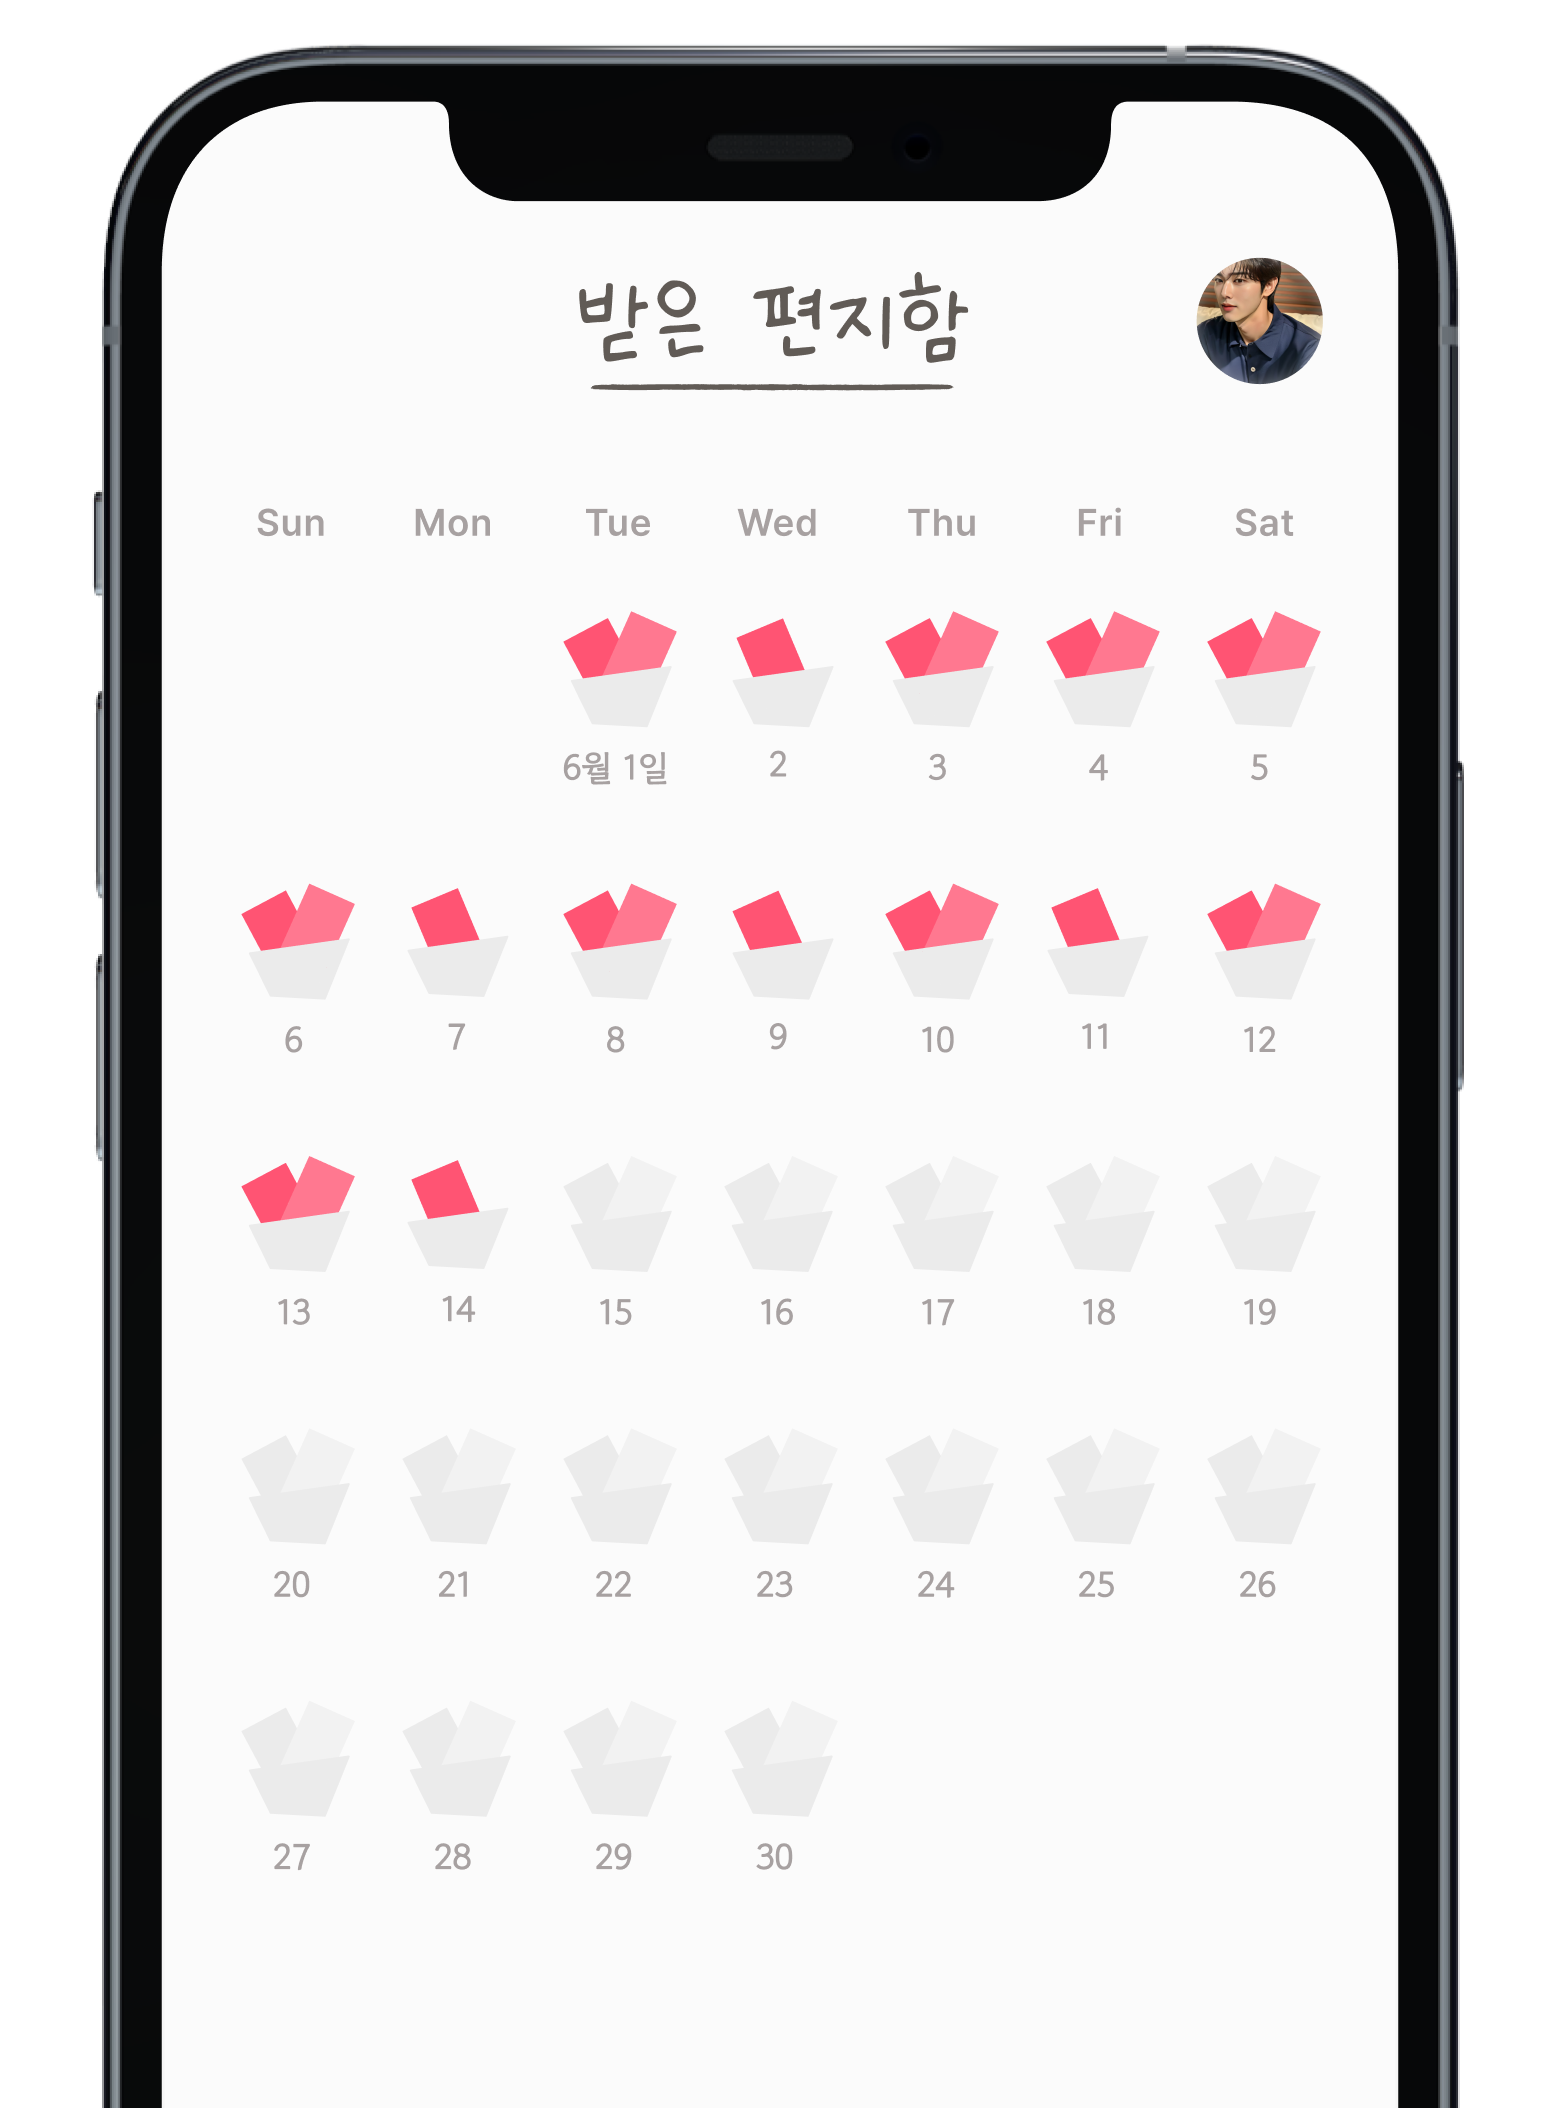
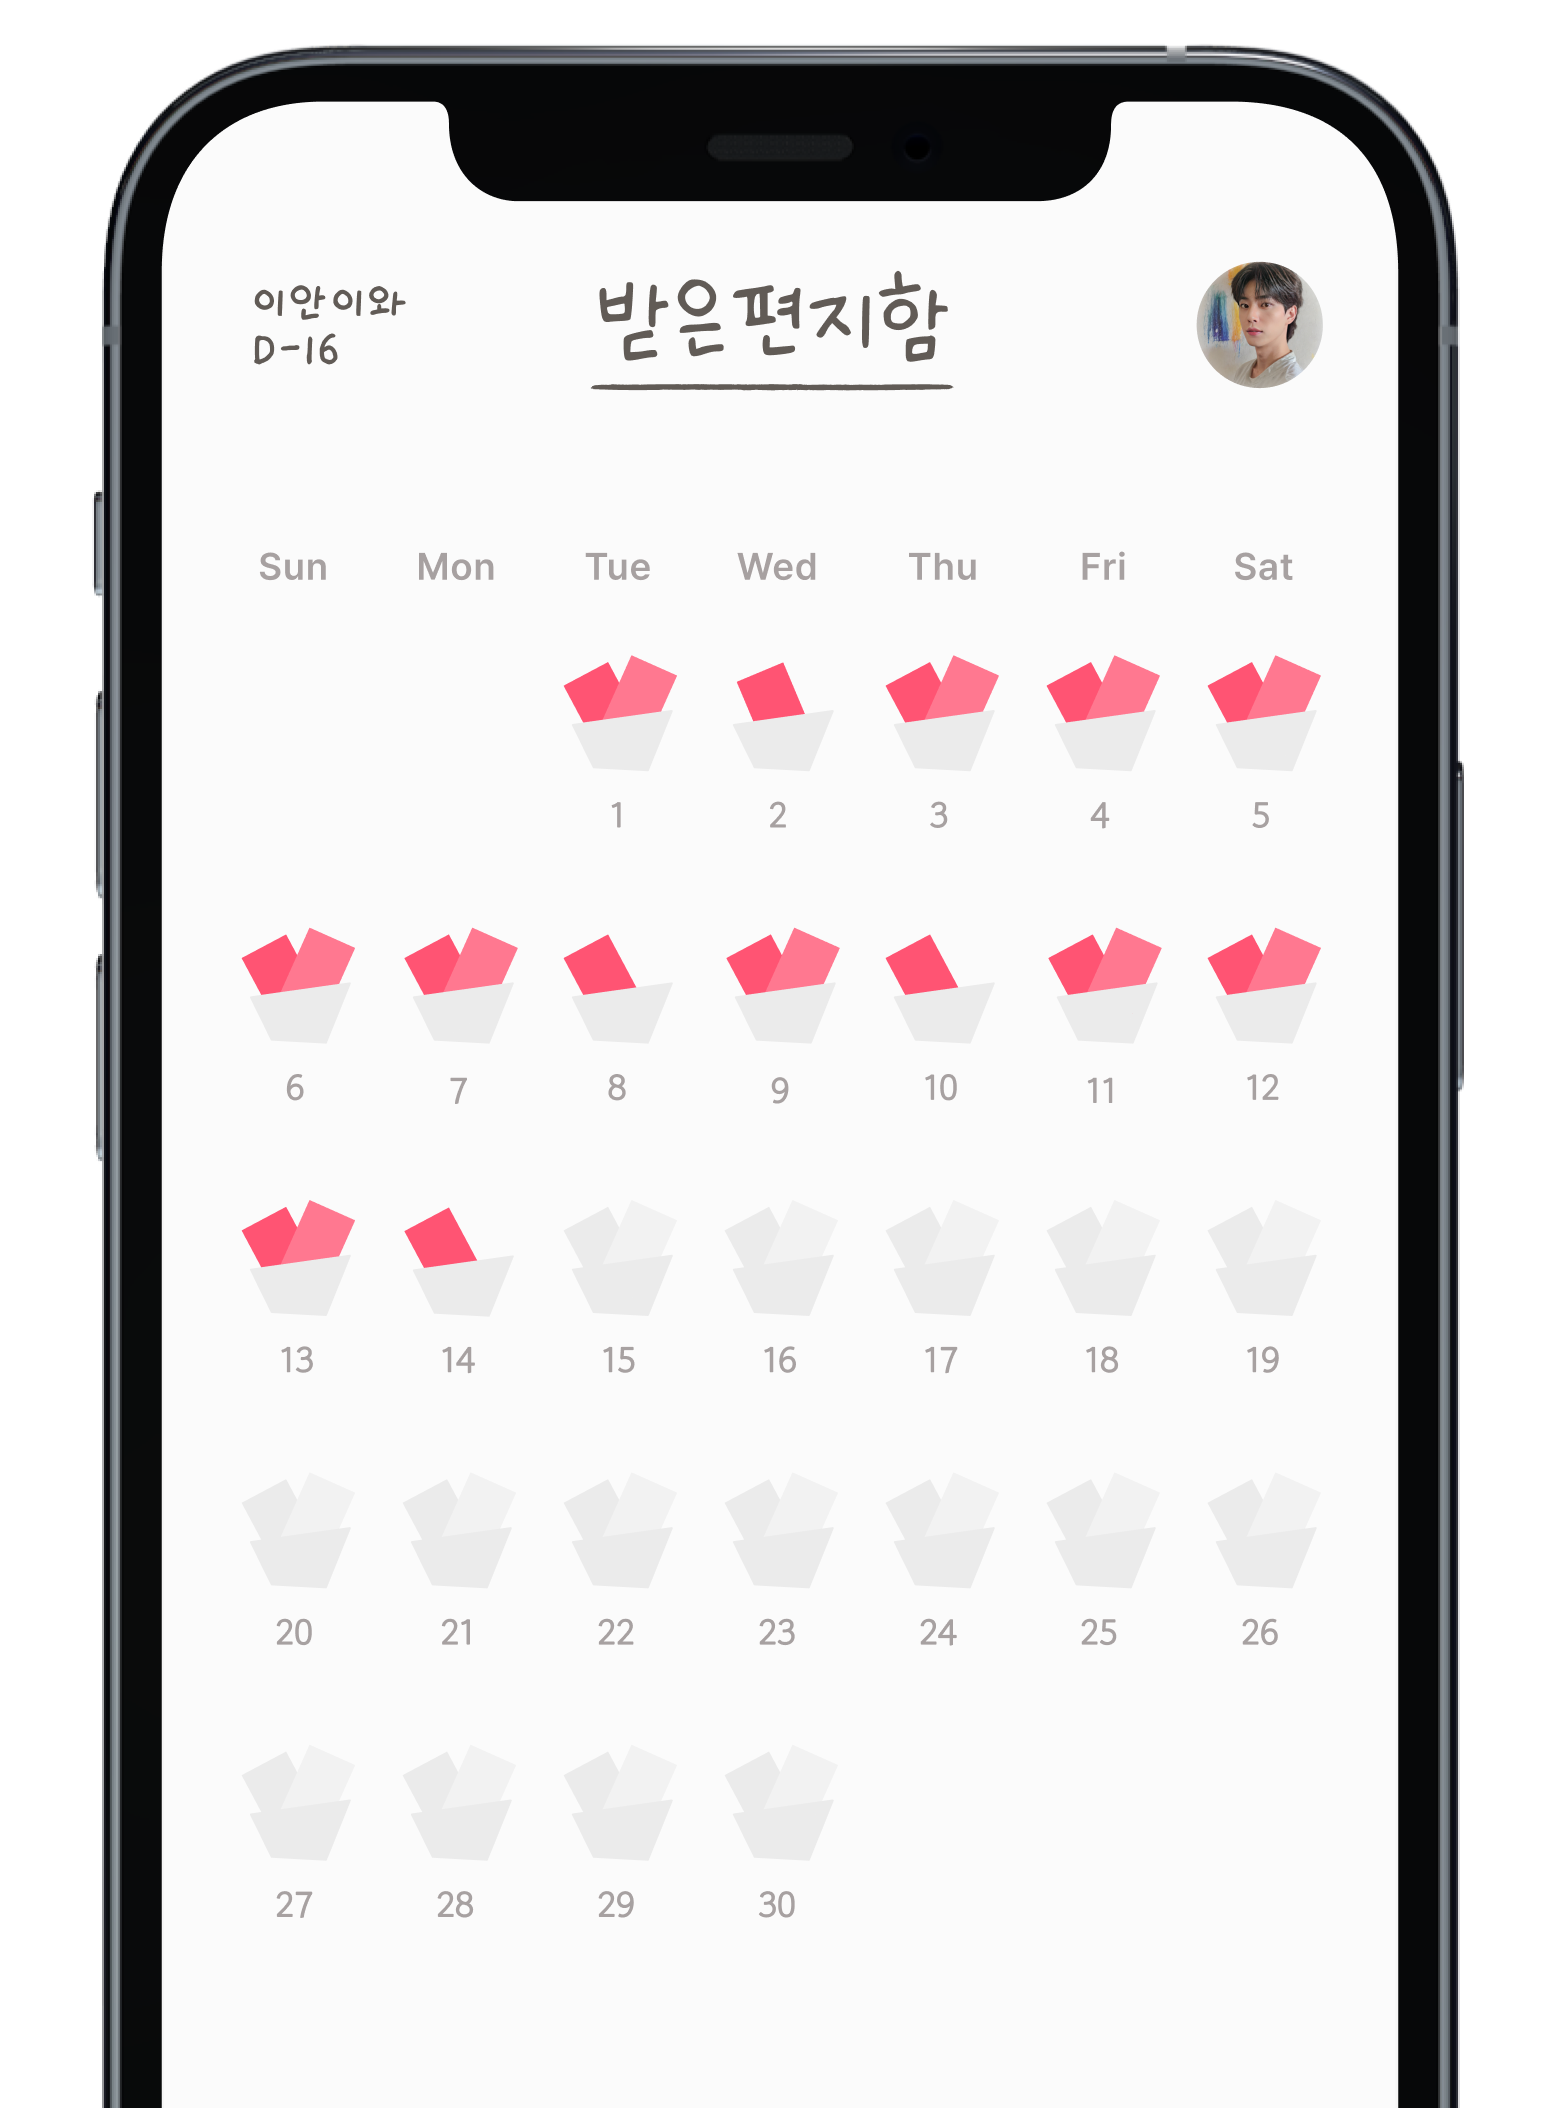
fix: landing image / FontStyle 변경
titleLarge를 바꿈.

diff --git a/lib/main.dart b/lib/main.dart
@@ -175,8 +175,10 @@ class ProjectJuneAppState extends ConsumerState<ProjectJuneApp> {
             titleLarge: TextStyle(
               fontFamily: 'NanumJungHagSaeng',
               fontSize: 39,
-              height: 36 / 39,
+              height: 38 / 40,
               color: ColorConstants.primary,
+              wordSpacing: -5.5,
+              letterSpacing: 1.3,
             ),
             bodySmall: TextStyle(
               color: ColorConstants.primary,
